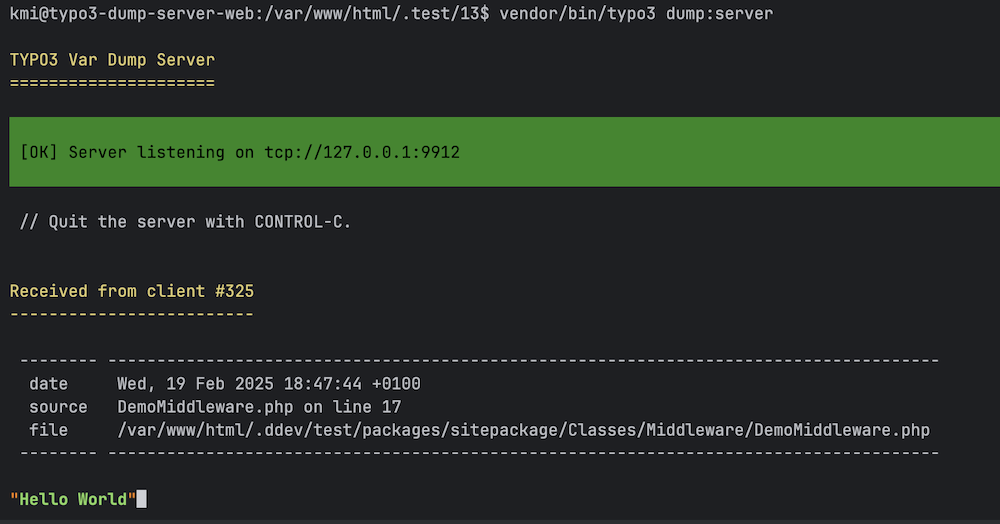
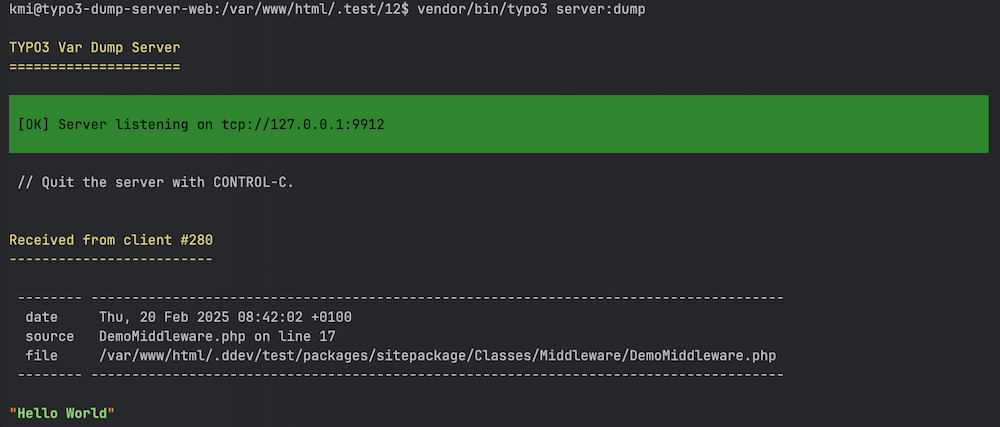
feat[!!!]: update command name

diff --git a/README.md b/README.md
@@ -40,7 +40,7 @@ Download the zip file from [TYPO3 extension repository (TER)](https://extensions
 Start the dump server with the following command:
 
 ```bash
-vendor/bin/typo3 dump:server
+vendor/bin/typo3 server:dump
 ```
 
 ![Console Command](./Documentation/Images/screenshot-command.png)
@@ -48,7 +48,7 @@ vendor/bin/typo3 dump:server
 Use the format option to change the output format to `html`:
 
 ```bash
-vendor/bin/typo3 dump:server --format=html > dump.html
+vendor/bin/typo3 server:dump --format=html > dump.html
 ```
 
 > [!NOTE]  
